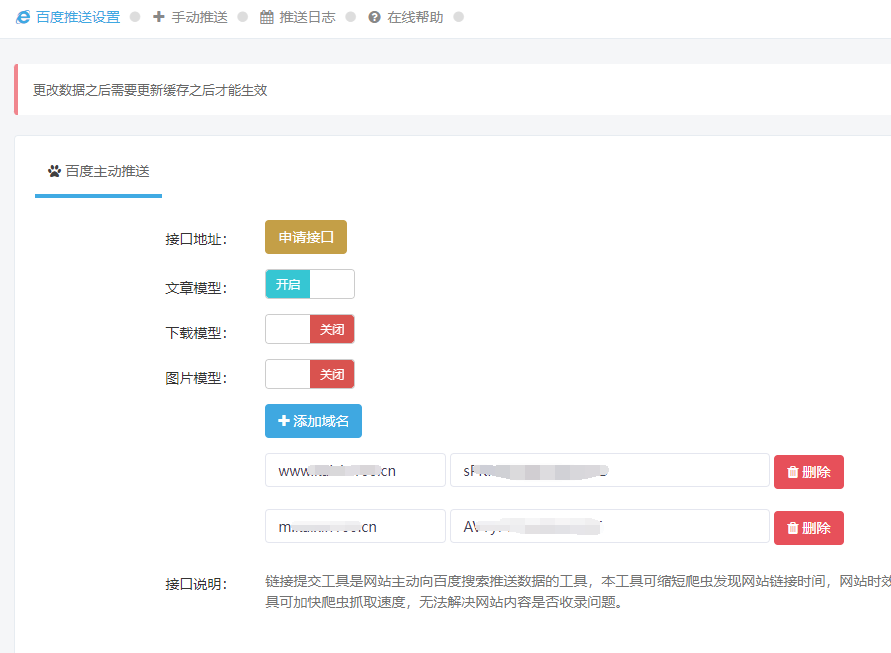
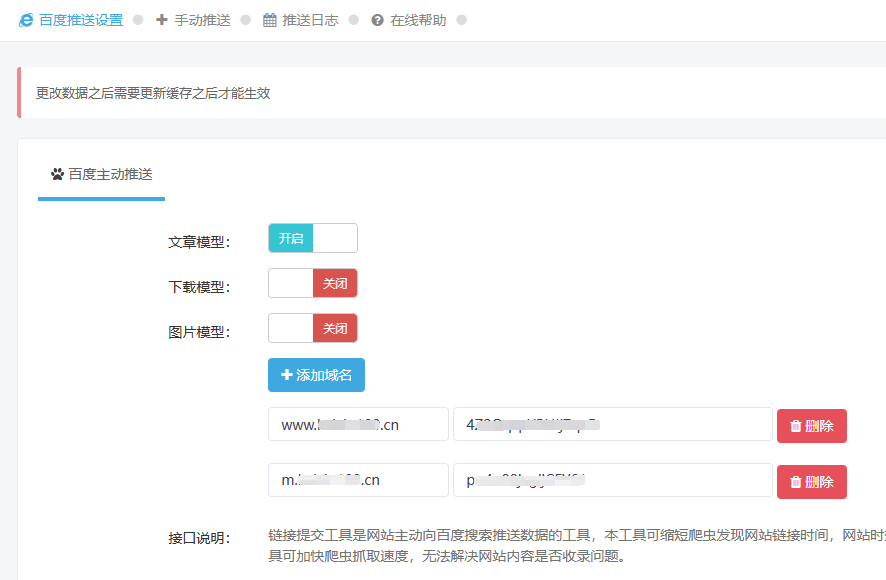
初始化仓库

diff --git a/cms/modules/bdts/classes/admin_bdts.class.php b/cms/modules/bdts/classes/admin_bdts.class.php
@@ -8,6 +8,13 @@ class admin_bdts {
 
 
     private $zzconfig;
+    
+    public function __construct() {
+        $this->input = pc_base::load_sys_class('input');
+        $this->config = pc_base::load_sys_class('config');
+        $this->cache = pc_base::load_sys_class('cache');
+        $this->siteid = get_siteid() ? get_siteid() : 1 ;
+    }
 
     // 配置信息
     public function getConfig() {
@@ -16,8 +23,8 @@ class admin_bdts {
             return $this->zzconfig;
         }
 
-        if (is_file(CACHE_PATH.'caches_bdts/bdts.php')) {
-            $this->zzconfig = require CACHE_PATH.'caches_bdts/bdts.php';
+        if (is_file(CACHE_PATH.'caches_bdts/bdts'.$this->siteid.'.php')) {
+            $this->zzconfig = require CACHE_PATH.'caches_bdts/bdts'.$this->siteid.'.php';
             return $this->zzconfig;
         }
 
@@ -27,8 +34,7 @@ class admin_bdts {
     // 配置信息
     public function setConfig($data) {
 
-        $this->config = pc_base::load_sys_class('config');
-        $this->config->file(CACHE_PATH.'caches_bdts/bdts.php', '站长配置文件', 32)->to_require($data);
+        $this->config->file(CACHE_PATH.'caches_bdts/bdts'.$this->siteid.'.php', '站长配置文件', 32)->to_require($data);
 
     }
 
@@ -70,10 +76,10 @@ class admin_bdts {
         $rt = json_decode(curl_exec($ch), true);
         if ($rt['error']) {
             // 错误日志
-            @file_put_contents(CACHE_PATH.'caches_bdts/bdts_log.php', date('Y-m-d H:i:s').' '.$name.'['.$url.'] - 失败 - '.$rt['message'].PHP_EOL, FILE_APPEND);
+            @file_put_contents(CACHE_PATH.'caches_bdts/bdts'.$this->siteid.'_log.php', date('Y-m-d H:i:s').' '.$name.'['.$url.'] - 失败 - '.$rt['message'].PHP_EOL, FILE_APPEND);
         } else {
             // 推送成功
-            @file_put_contents(CACHE_PATH.'caches_bdts/bdts_log.php', date('Y-m-d H:i:s').' '.$name.'['.$url.'] - 成功'.PHP_EOL, FILE_APPEND);
+            @file_put_contents(CACHE_PATH.'caches_bdts/bdts'.$this->siteid.'_log.php.php', date('Y-m-d H:i:s').' '.$name.'['.$url.'] - 成功'.PHP_EOL, FILE_APPEND);
         }
 
         return dr_return_data(1, 'ok');
@@ -81,7 +87,6 @@ class admin_bdts {
 
     // 进行百度推送
     public function module_bdts($mid, $url, $action = 'add') {
-        $siteid = get_siteid() ? get_siteid() : 1 ;
 
         $config = $this->getConfig();
         if (!$config) {
@@ -102,13 +107,22 @@ class admin_bdts {
         }
 
         // 获取移动端域名
-        $murl = str_replace(siteurl($siteid), sitemobileurl($siteid), $url);
-        $uri = parse_url($murl);
-        $m_site = $uri['host'];
+        $murl = str_replace(siteurl($this->siteid), sitemobileurl($this->siteid), $url);
+        $sitelist = siteinfo($this->siteid);
+        if ($sitelist['mobilemode']==0 && $sitelist['mobile_dirname']) {
+            $m_site = $site.'/'.$sitelist['mobile_dirname'];
+        } else {
+            $uri = parse_url($murl);
+            $m_site = $uri['host'];
+        }
         if ($m_site && $m_site != $site) {
             $murl = str_replace($site, $m_site, $purl); // 替换移动端url
         } else {
             $m_site = '';
+        }
+
+        if ($sitelist['mobilemode']==0 && $sitelist['mobile_dirname'] && strpos($m_site, $sitelist['mobile_dirname']) !== false) {
+            list($m_site) = explode('/', $m_site);
         }
 
         // 百度主动推送
@@ -123,56 +137,49 @@ class admin_bdts {
                     $m_token = $t['token'];
                 }
             }
+
             if ($token) {
                 // pc域名
-                if (strpos($purl, siteurl($siteid)) === false ) {
-                    @file_put_contents(CACHE_PATH.'caches_bdts/bdts_log.php', date('Y-m-d H:i:s').' PC端['.$purl.'] - 域名规范或者域名不是PC域名（'.siteurl($siteid).'） - 未推送 '.PHP_EOL, FILE_APPEND);
+                $api = $this->zzurl[$action].'?site='.$site.'&token='.$token;
+                $urls = [$purl];
+                $ch = curl_init();
+                $options =  array(
+                    CURLOPT_URL => $api,
+                    CURLOPT_POST => true,
+                    CURLOPT_RETURNTRANSFER => true,
+                    CURLOPT_POSTFIELDS => implode("\n", $urls),
+                    CURLOPT_HTTPHEADER => array('Content-Type: text/plain'),
+                );
+                curl_setopt_array($ch, $options);
+                $rt = json_decode(curl_exec($ch), true);
+                if ($rt['error']) {
+                    // 错误日志
+                    @file_put_contents(CACHE_PATH.'caches_bdts/bdts'.$this->siteid.'_log.php.php', date('Y-m-d H:i:s').' PC端['.$purl.'] - '.$action.' - 失败 - '.$rt['message'].PHP_EOL, FILE_APPEND);
                 } else {
-                    $api = $this->zzurl[$action].'?site='.$site.'&token='.$token;
-                    $urls = [$purl];
-                    $ch = curl_init();
-                    $options =  array(
-                        CURLOPT_URL => $api,
-                        CURLOPT_POST => true,
-                        CURLOPT_RETURNTRANSFER => true,
-                        CURLOPT_POSTFIELDS => implode("\n", $urls),
-                        CURLOPT_HTTPHEADER => array('Content-Type: text/plain'),
-                    );
-                    curl_setopt_array($ch, $options);
-                    $rt = json_decode(curl_exec($ch), true);
-                    if ($rt['error']) {
-                        // 错误日志
-                        @file_put_contents(CACHE_PATH.'caches_bdts/bdts_log.php', date('Y-m-d H:i:s').' PC端['.$purl.'] - '.$action.' - 失败 - '.$rt['message'].PHP_EOL, FILE_APPEND);
-                    } else {
-                        // 推送成功
-                        @file_put_contents(CACHE_PATH.'caches_bdts/bdts_log.php', date('Y-m-d H:i:s').' PC端['.$purl.'] - '.$action.' - 成功'.PHP_EOL, FILE_APPEND);
-                    }
+                    // 推送成功
+                    @file_put_contents(CACHE_PATH.'caches_bdts/bdts'.$this->siteid.'_log.php.php', date('Y-m-d H:i:s').' PC端['.$purl.'] - '.$action.' - 成功'.PHP_EOL, FILE_APPEND);
                 }
             }
             if ($m_token && $m_site) {
                 // 移动端
-                if (strpos($murl, sitemobileurl($siteid)) === false ) {
-                    @file_put_contents(CACHE_PATH.'caches_bdts/bdts_log.php', date('Y-m-d H:i:s').' 移动端['.$murl.'] - 域名规范或者域名不是移动端域名（'.sitemobileurl($siteid).'） - 未推送 '.PHP_EOL, FILE_APPEND);
+                $api = $this->zzurl[$action] . '?site=' . $m_site . '&token=' . $m_token;
+                $urls = [$murl];
+                $ch = curl_init();
+                $options = array(
+                    CURLOPT_URL => $api,
+                    CURLOPT_POST => true,
+                    CURLOPT_RETURNTRANSFER => true,
+                    CURLOPT_POSTFIELDS => implode("\n", $urls),
+                    CURLOPT_HTTPHEADER => array('Content-Type: text/plain'),
+                );
+                curl_setopt_array($ch, $options);
+                $rt = json_decode(curl_exec($ch), true);
+                if ($rt['error']) {
+                    // 错误日志
+                    @file_put_contents(CACHE_PATH . 'caches_bdts/bdts'.$this->siteid.'_log.php.php', date('Y-m-d H:i:s') . ' 移动端[' . $murl . '] - '.$action.' - 失败 - ' . $rt['message'] . PHP_EOL, FILE_APPEND);
                 } else {
-                    $api = $this->zzurl[$action] . '?site=' . $m_site . '&token=' . $m_token;
-                    $urls = [$murl];
-                    $ch = curl_init();
-                    $options = array(
-                        CURLOPT_URL => $api,
-                        CURLOPT_POST => true,
-                        CURLOPT_RETURNTRANSFER => true,
-                        CURLOPT_POSTFIELDS => implode("\n", $urls),
-                        CURLOPT_HTTPHEADER => array('Content-Type: text/plain'),
-                    );
-                    curl_setopt_array($ch, $options);
-                    $rt = json_decode(curl_exec($ch), true);
-                    if ($rt['error']) {
-                        // 错误日志
-                        @file_put_contents(CACHE_PATH . 'caches_bdts/bdts_log.php', date('Y-m-d H:i:s') . ' 移动端[' . $murl . '] - '.$action.' - 失败 - ' . $rt['message'] . PHP_EOL, FILE_APPEND);
-                    } else {
-                        // 推送成功
-                        @file_put_contents(CACHE_PATH . 'caches_bdts/bdts_log.php', date('Y-m-d H:i:s') . ' 移动端[' . $murl . '] - '.$action.' - 成功' . PHP_EOL, FILE_APPEND);
-                    }
+                    // 推送成功
+                    @file_put_contents(CACHE_PATH . 'caches_bdts/bdts'.$this->siteid.'_log.php.php', date('Y-m-d H:i:s') . ' 移动端[' . $murl . '] - '.$action.' - 成功' . PHP_EOL, FILE_APPEND);
                 }
             }
 

diff --git a/cms/modules/bdts/templates/config.tpl.php b/cms/modules/bdts/templates/config.tpl.php
@@ -31,12 +31,6 @@ jQuery(document).ready(function() {
 
                 <div class="form-body">
 
-                    <div class="form-group">
-                        <label class="col-md-2 control-label"><?php echo L('接口地址');?>：</label>
-                        <div class="col-md-9">
-                            <a href="https://ziyuan.baidu.com/linksubmit/index" target="_blank" class="btn yellow"><?php echo L('申请接口');?></a>
-                        </div>
-                    </div>
                     <?php foreach((array)$sitemodel_data as $t){?>
                     <div class="form-group">
                         <label class="col-md-2 control-label"><?php echo $t['name'];?>：</label>

diff --git a/cms/modules/bdts/bdts.php b/cms/modules/bdts/bdts.php
@@ -19,7 +19,7 @@ class bdts extends admin {
 	public function log_index() {
 		$data = $list = array();
 		$page = max(1, (int)$this->input->get('page'));
-		$file = CACHE_PATH.'caches_bdts/bdts_log.php';
+		$file = CACHE_PATH.'caches_bdts/bdts'.$this->siteid.'_log.php.php';
 		if (is_file($file)) {
 			$data = explode(PHP_EOL, file_get_contents($file));
 			$data = $data ? array_reverse($data) : array();
@@ -75,7 +75,7 @@ class bdts extends admin {
 	
 	public function del() {
 
-		@unlink(CACHE_PATH.'caches_bdts/bdts_log.php');
+		@unlink(CACHE_PATH.'caches_bdts/bdts'.$this->siteid.'_log.php.php');
 
 		dr_admin_msg(1,L('操作成功'), '?m=bdts&c=bdts&a=log_index&menuid='.$this->input->get('menuid'));
 	}
